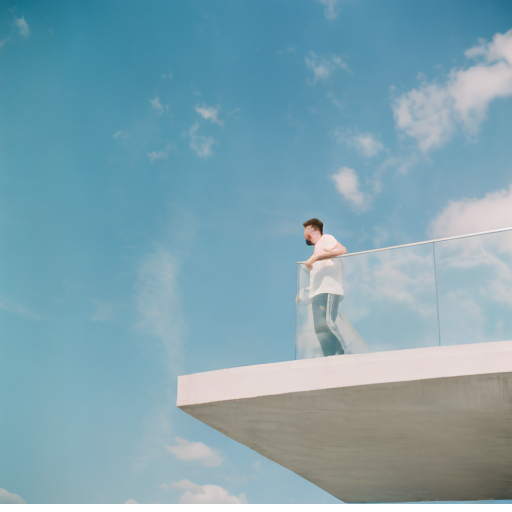
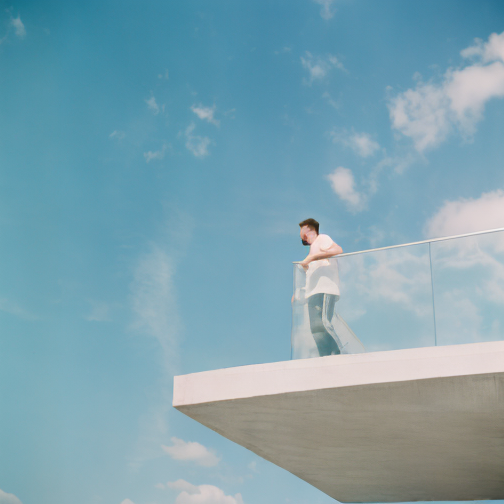
Crop YAN 1434-57 drag set to square and fix file refs

diff --git a/index.html b/index.html
@@ -746,7 +746,7 @@
           <div class="drag-compare-col"><img src="static/images/Drag_Compare/PJC_2023-09-14-1936-05_dragdiffusion.png" alt="DragDiff 5"></div>
           <div class="drag-compare-col"><img src="static/images/Drag_Compare/PJC_2023-09-15-1108-11_dragdiffusion.png" alt="DragDiff 6"></div>
           <div class="drag-compare-col"><img src="static/images/Drag_Compare/YAN_2023-09-16-1432-38_dragdiffusion.png" alt="DragDiff 7"></div>
-          <div class="drag-compare-col"><img src="static/images/Drag_Compare/YAN_2023-09-16-1434-57_dragdiffusion.png" alt="DragDiff 8"></div>
+          <div class="drag-compare-col"><img src="static/images/Drag_Compare/YAN_2023-09-16-1434-57_DragDiffusion.png" alt="DragDiff 8"></div>
         </div>
 
         <div class="drag-compare-row">
@@ -755,7 +755,7 @@
           <div class="drag-compare-col"><img src="static/images/Drag_Compare/PJC_2023-09-14-1936-05_fastdrag.png" alt="FastDrag 5"></div>
           <div class="drag-compare-col"><img src="static/images/Drag_Compare/PJC_2023-09-15-1108-11_fastdrag.png" alt="FastDrag 6"></div>
           <div class="drag-compare-col"><img src="static/images/Drag_Compare/YAN_2023-09-16-1432-38_fastdrag.png" alt="FastDrag 7"></div>
-          <div class="drag-compare-col"><img src="static/images/Drag_Compare/YAN_2023-09-16-1434-57_fastdrag.png" alt="FastDrag 8"></div>
+          <div class="drag-compare-col"><img src="static/images/Drag_Compare/YAN_2023-09-16-1434-57_FastDrag.png" alt="FastDrag 8"></div>
         </div>
 
         <div class="drag-compare-row">
